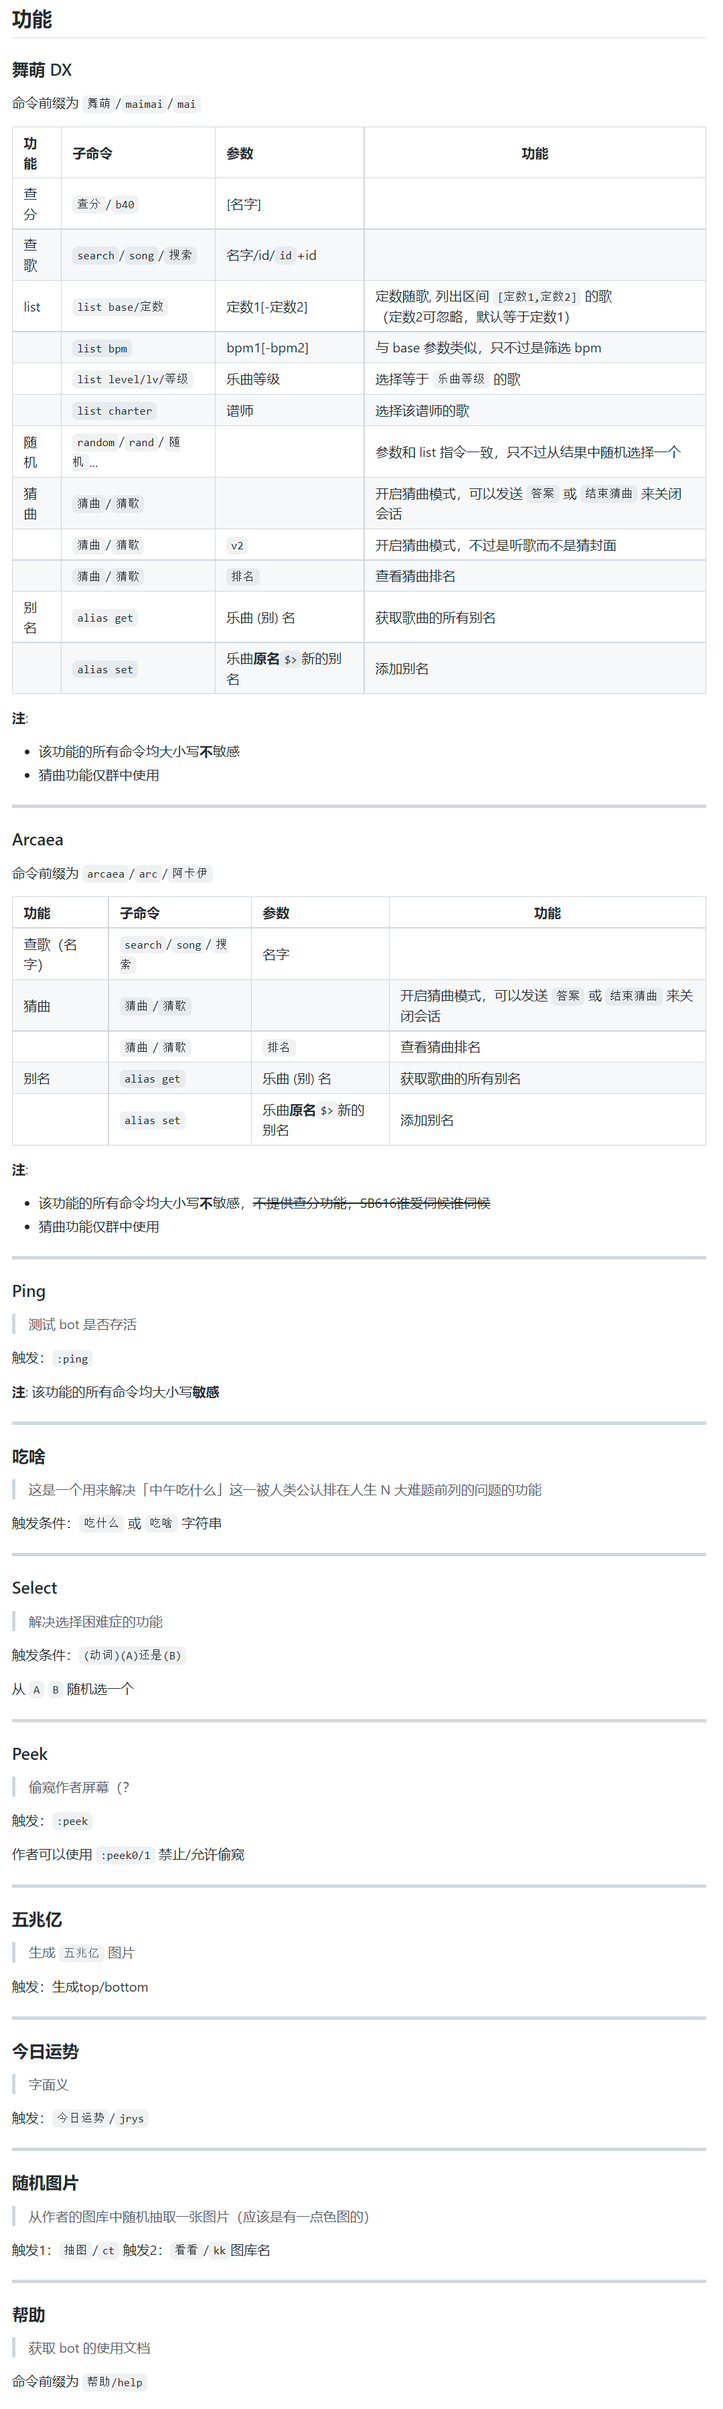
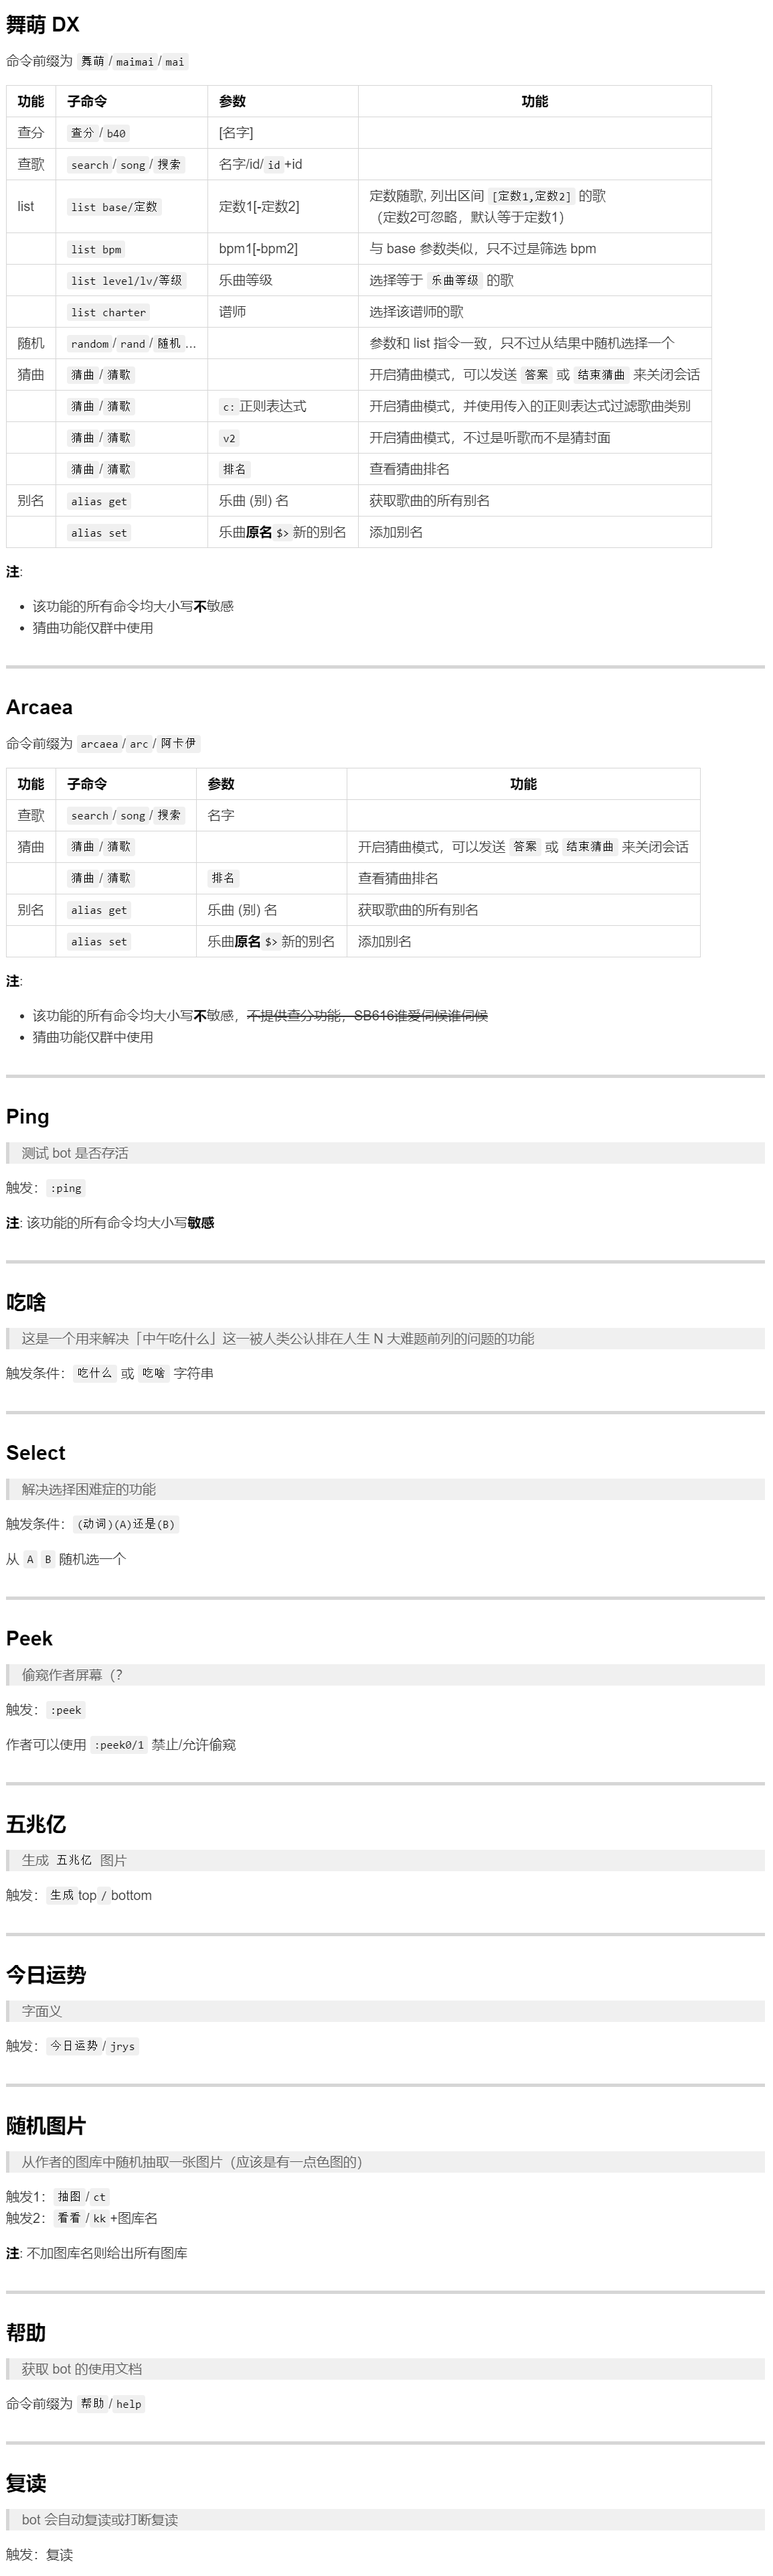
更新了帮助，并添加了复读机功能

diff --git a/QQBOT.Plugin/Repeater.cs b/QQBOT.Plugin/Repeater.cs
@@ -1,0 +1,40 @@
+using QQBot.MiraiHttp;
+using QQBot.MiraiHttp.DI;
+using QQBot.MiraiHttp.Entity;
+using QQBot.MiraiHttp.Plugin;
+
+namespace QQBot.Plugin;
+
+[MiraiPlugin(-20)]
+[MiraiPluginCommand(MiraiMessageType.GroupMessage)]
+[MiraiPluginTrigger(typeof(MiraiPluginTrigger), nameof(MiraiPluginTrigger.PlainTextTrigger), MiraiMessageType.GroupMessage)]
+public class Repeater: MiraiPluginBase
+{
+    private static (string m, int t) _repeaterStatus = (null, 0)!;
+    private static readonly (int fst, int snd) ThreshHold = (3, 9);
+
+    [MiraiPluginCommand]
+    private static MiraiPluginTaskState Handler(Message m, MessageSenderProvider ms)
+    {
+        if (m.Command == _repeaterStatus.m)
+        {
+            _repeaterStatus.t++;
+        }
+        else
+        {
+            _repeaterStatus= (m.Command, 1);
+        }
+
+        if (_repeaterStatus.t == ThreshHold.fst)
+        {
+            ms.Reply(m.Command, m, false);
+        }
+
+        if (_repeaterStatus.t == ThreshHold.snd)
+        {
+            ms.Reply("复读你🐴呢", m, false);
+        }
+
+        return MiraiPluginTaskState.NoResponse;
+    }
+}

diff --git a/QQBOT.Plugin/Help.cs b/QQBOT.Plugin/Help.cs
@@ -12,7 +12,7 @@ public class Help : MiraiPluginBase
     [MiraiPluginCommand]
     private MiraiPluginTaskState Handler(Message message, MessageSenderProvider sender)
     {
-        sender.Reply(ImageMessage.FromPath(Path.Join(ConfigurationManager.AppSettings["Help"], "help.png")), message);
+        sender.Reply(ImageMessage.FromPath(Path.Join(ConfigurationManager.AppSettings["Help"], "help.png")), message, false);
 
         return MiraiPluginTaskState.CompletedTask;
     }

diff --git a/QQBot.MiraiHttp/MiraiHttpSession.ReceiveMessage.cs b/QQBot.MiraiHttp/MiraiHttpSession.ReceiveMessage.cs
@@ -24,6 +24,8 @@ public partial class MiraiHttpSession
             {
                 Console.WriteLine(e.ToString());
 
+                await Task.Delay(TimeSpan.FromSeconds(3));
+
                 if (retry++ > 10) return;
             }
         }

diff --git a/README.md b/README.md
@@ -17,7 +17,8 @@
 |        | `list level/lv/等级`             | 乐曲等级             | 选择等于 `乐曲等级` 的歌                                  |
 |        | `list charter`                 | 谱师               | 选择该谱师的歌                                         |
 | 随机     | `random`/`rand`/`随机`...        |                  | 参数和 list 指令一致，只不过从结果中随机选择一个                     |
-| 猜曲     | `猜曲`/`猜歌`                      |                  | 开启猜曲模式，可以发送 `答案` 或 `结束猜曲` 来关闭会话                 |
+| 猜曲     | `猜曲`/`猜歌`                      |  | 开启猜曲模式，可以发送 `答案` 或 `结束猜曲` 来关闭会话                 |
+|  | `猜曲`/`猜歌`                      | `c:`正则表达式 | 开启猜曲模式，并使用传入的正则表达式过滤歌曲类别                 |
 |        | `猜曲`/`猜歌`                      | `v2`             | 开启猜曲模式，不过是听歌而不是猜封面                              |
 |        | `猜曲`/`猜歌`                      | `排名`             | 查看猜曲排名                                         |
 | 别名     | `alias get`                    | 乐曲 (别) 名         | 获取歌曲的所有别名                                       |
@@ -36,7 +37,7 @@
 
 | 功能     | 子命令                   | 参数               | 功能                              |
 |:-------|:----------------------|:-----------------|---------------------------------|
-| 查歌（名字） | `search`/`song`/`搜索`  | 名字               |                                 | 
+| 查歌 | `search`/`song`/`搜索`  | 名字               |                                 | 
 | 猜曲     | `猜曲`/`猜歌`             |                  | 开启猜曲模式，可以发送 `答案` 或 `结束猜曲` 来关闭会话 |
 |        | `猜曲`/`猜歌`             | `排名`              | 查看猜曲排名                          |
 | 别名     | `alias get`           | 乐曲 (别) 名         | 获取歌曲的所有别名                       |
@@ -90,7 +91,7 @@
 
 > 生成 `五兆亿` 图片
 
-触发：生成top/bottom
+触发：`生成`top`/`bottom
 
 ---
 
@@ -107,7 +108,9 @@
 > 从作者的图库中随机抽取一张图片（应该是有一点色图的）
 
 触发1：`抽图`/`ct`
-触发2：`看看`/`kk`图库名
+触发2：`看看`/`kk`+图库名
+
+**注**: 不加图库名则给出所有图库
 
 ---
 
@@ -115,7 +118,15 @@
 
 > 获取 bot 的使用文档
 
-命令前缀为 `帮助/help`
+命令前缀为 `帮助`/`help`
+
+---
+
+### 复读
+
+> bot 会自动复读或打断复读
+
+触发：复读
 
 ---
 
